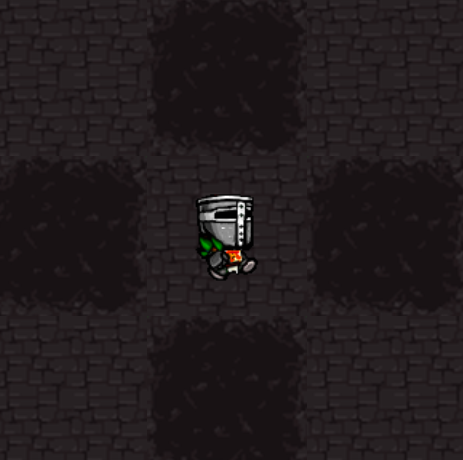
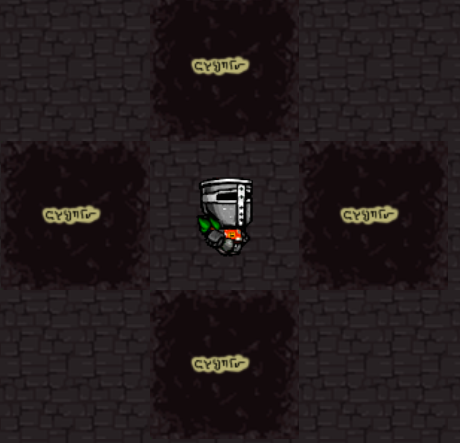
probemos

diff --git a/index.html b/index.html
@@ -142,11 +142,11 @@
                     <img src="assets/img/regla1.PNG" width="200">
                 </div>
                 <div class="regla">
-                    <p>Debes agarrar las ascuas para poder escapar</p>
-                    <img src="assets/img/regla2.PNG" width="150">
+                    <p>Debes agarrar las pruebas escritas para poder escapar</p>
+                    <img src="assets/img/regla2.PNG" width="200">
                 </div>
                 <div class="regla">
-                    <p>Escapa por la salida con las ascuas sin que te pille Lacobus</p>
+                    <p>Escapa por la salida con las pruebas sin que te pille Lacobus</p>
                     <img src="assets/img/regla3.PNG" width="200">
                 </div>
             </div>

diff --git a/js/juegoScript.js b/js/juegoScript.js
@@ -1,5 +1,3 @@
-
-
 function numRandom(num){
     return Math.floor(Math.random()*num);
 }
